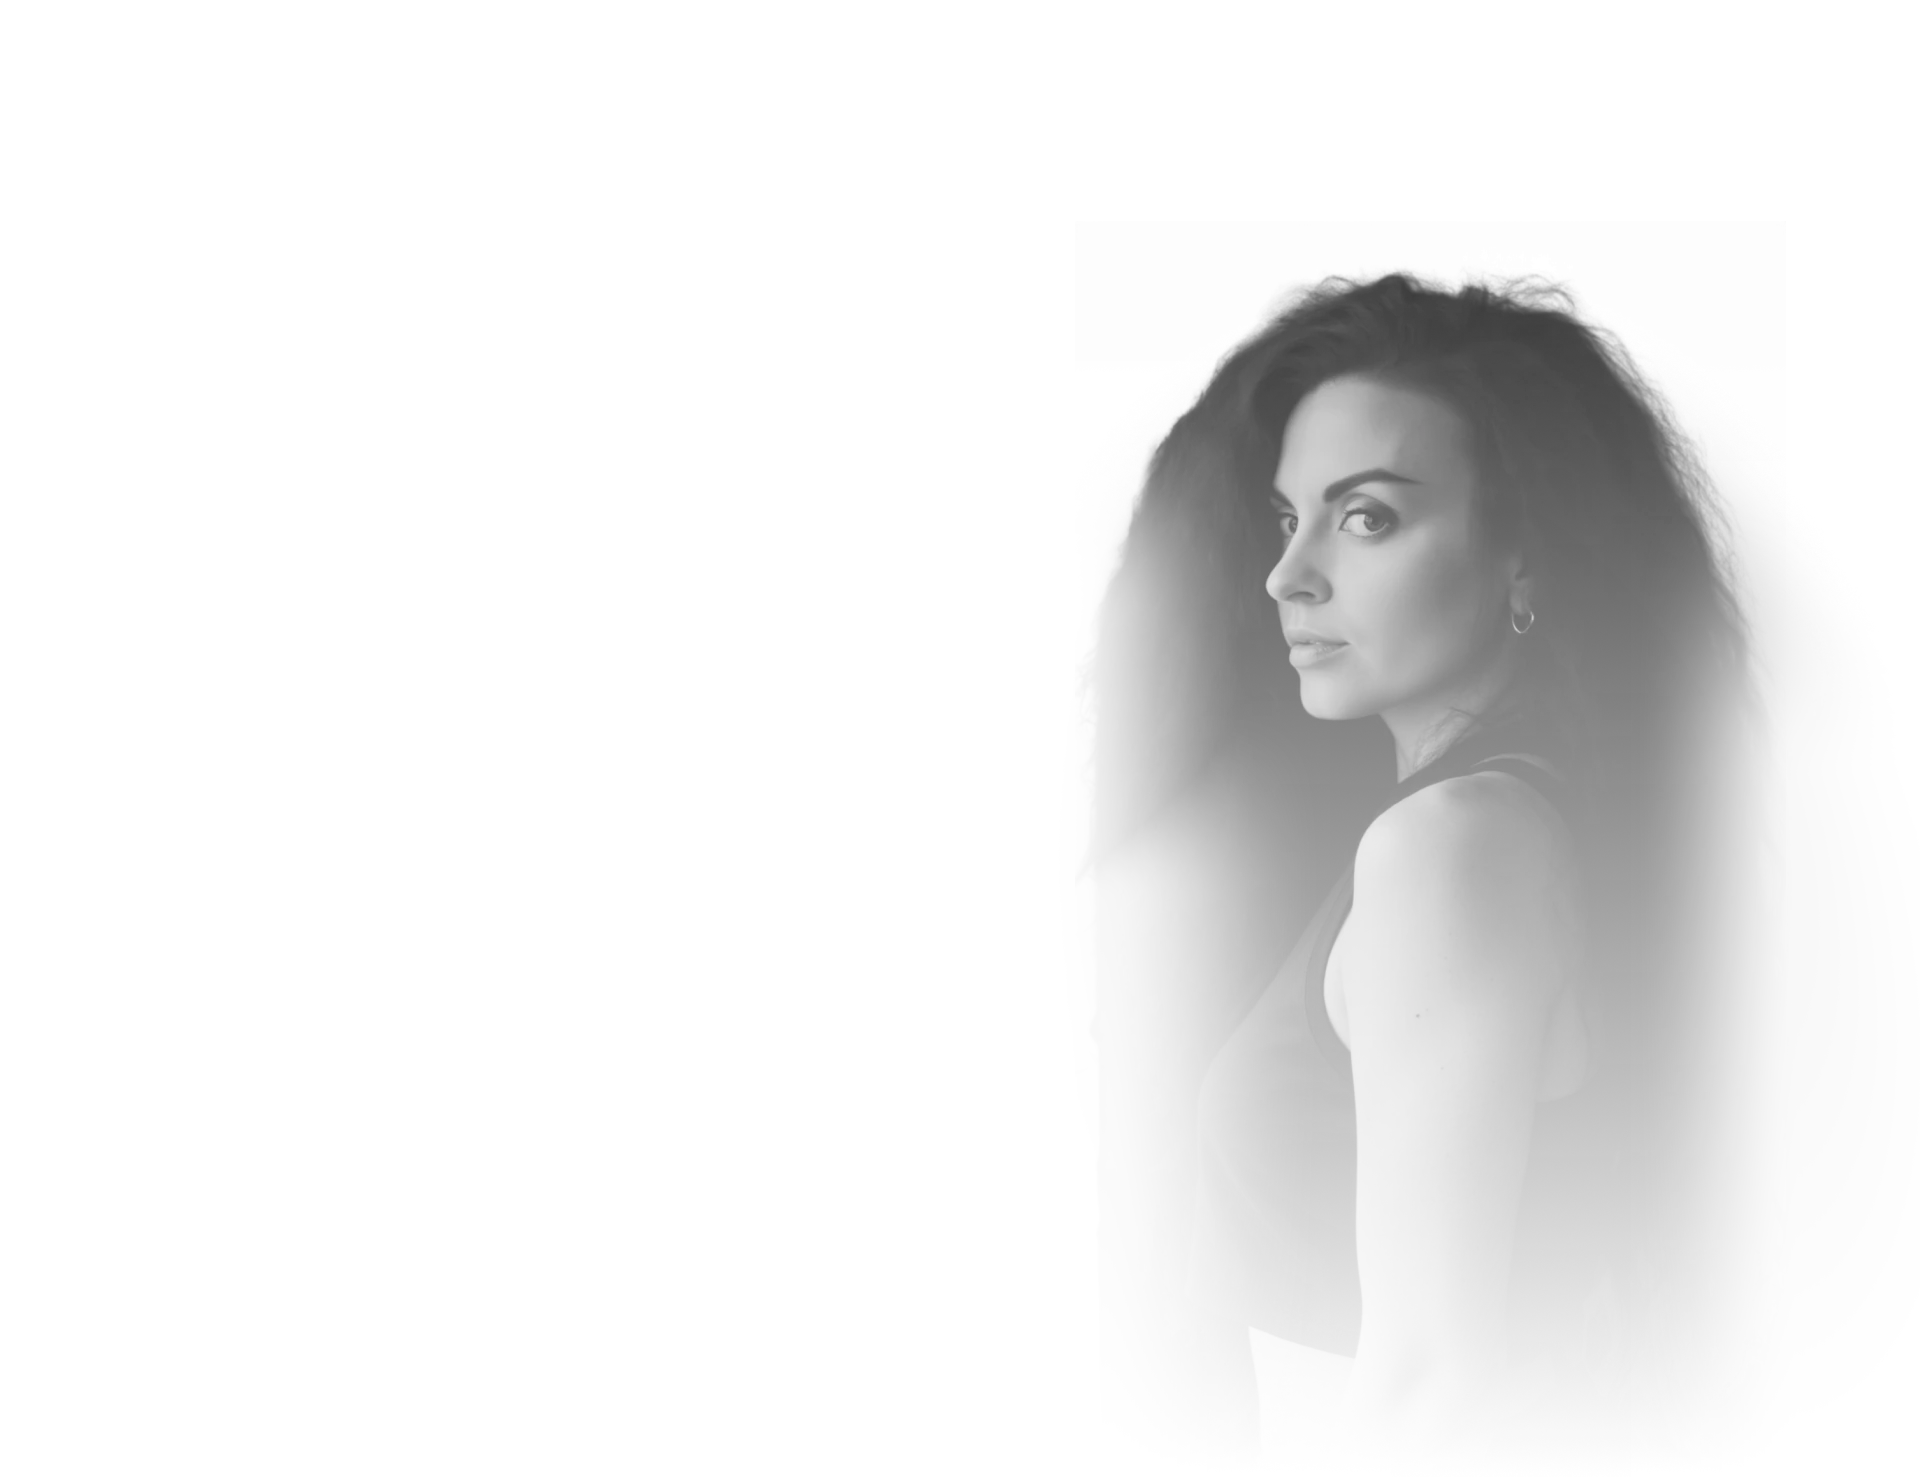
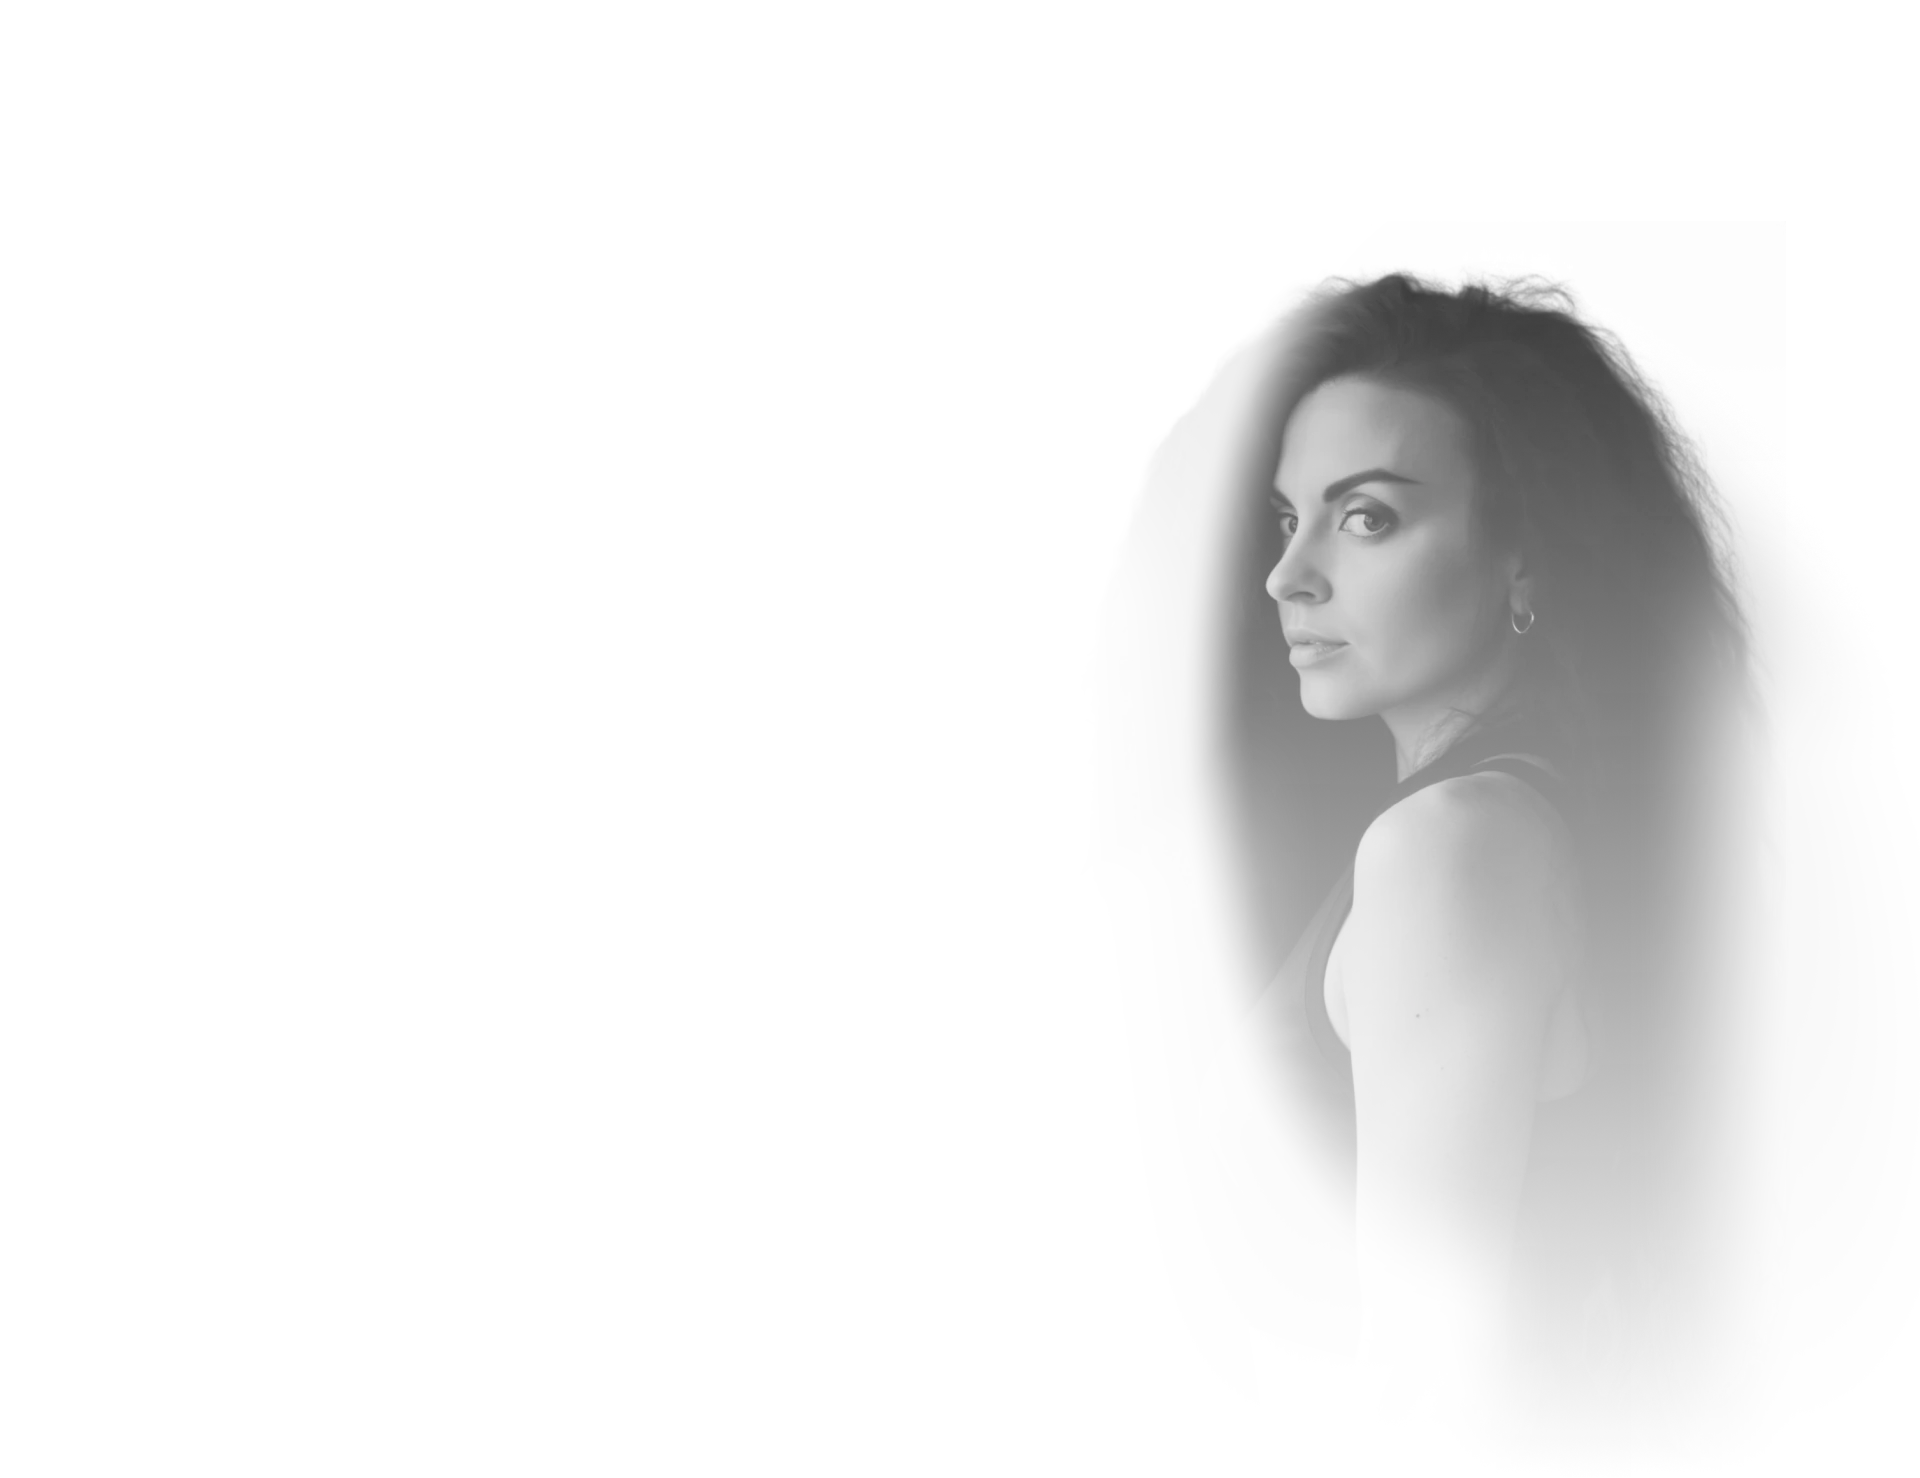
Скиллы: вернул прежнюю раскладку, 8 пунктов по 4 с каждой стороны; фото: волосы слева сильнее растворены
Claude-Session: https://claude.ai/code/session_01VoSRDSBLadYxEjhpN71N9v

Changed region(s): [[0.5625, 0.1867, 0.7188, 0.9026]]

diff --git a/index.html b/index.html
@@ -228,11 +228,13 @@
       <p class="sec__tag overline">{ Навыки }</p>
     </div>
     <div class="skills__track" tabindex="0" aria-label="Навыки, листаются вбок">
-        <ol class="skills__col skills__grid">
+        <ol class="skills__col skills__col--left">
           <li class="skill"><span class="skill__num">01</span><p class="skill__title">Дизайн от&nbsp;интерфейсов до&nbsp;полиграфии</p><p class="skill__desc">UI/UX, сайты, брендинг, иллюстрации и&nbsp;печатные материалы. За&nbsp;плечами&nbsp;— 200+ <span class="nw">дизайн-концепций</span>, сотни логотипов и&nbsp;фирменных стилей.</p></li>
           <li class="skill"><span class="skill__num">02</span><p class="skill__title">Профильное образование</p><p class="skill__desc">Окончила ТРТУ, сейчас ЮФУ. По&nbsp;специальности&nbsp;— <span class="nw">инженер-дизайнер</span>.</p></li>
           <li class="skill"><span class="skill__num">03</span><p class="skill__title">6+ лет в&nbsp;IT-студии</p><p class="skill__desc">Знаю процессы изнутри и&nbsp;умею работать в&nbsp;связке с&nbsp;разработчиками&nbsp;— от&nbsp;идеи до&nbsp;реализации.</p></li>
           <li class="skill"><span class="skill__num">04</span><p class="skill__title">Международный опыт</p><p class="skill__desc">3+ года в&nbsp;офисе канадской компании, в&nbsp;англоязычной команде. Долгосрочно сотрудничаю с&nbsp;зарубежными компаниями удалённо.</p></li>
+        </ol>
+        <ol class="skills__col skills__col--right" start="5">
           <li class="skill"><span class="skill__num">05</span><p class="skill__title">Руководство и&nbsp;наставничество</p><p class="skill__desc">2 года руководила командой из&nbsp;пяти дизайнеров: распределяла задачи, вела переговоры и&nbsp;сдавала проекты. Помогаю младшим специалистам расти.</p></li>
           <li class="skill"><span class="skill__num">06</span><p class="skill__title">Самостоятельность и&nbsp;сроки</p><p class="skill__desc">Большой опыт фриланса. Быстро включаюсь в&nbsp;работу, планирую нагрузку и&nbsp;довожу проекты до&nbsp;результата.</p></li>
           <li class="skill"><span class="skill__num">07</span><p class="skill__title">Вайбкодинг</p><p class="skill__desc">Создаю сайты и&nbsp;интерактивные инструменты с&nbsp;помощью AI. Соединяю дизайн и&nbsp;код, чтобы превращать идеи в&nbsp;работающие проекты.</p></li>

diff --git a/style.css b/style.css
@@ -313,38 +313,40 @@ a:hover { opacity: .6; }
 }
 .soft__bar { display: none; }
 
-/* ---------- Скиллы: 8 пунктов, сетка 4×2 ---------- */
-.skills__track { margin-top: calc(87 * var(--u)); }
-.skills__grid {
+/* ---------- Скиллы ---------- */
+.skills__track {
   display: grid;
-  grid-template-columns: repeat(4, 1fr);
-  gap: calc(72 * var(--u)) calc(40 * var(--u));
-  margin: 0;
-  padding: 0;
-  list-style: none;
+  grid-template-columns: calc(860 * var(--u)) calc(860 * var(--u));
+  column-gap: calc(40 * var(--u));
+  align-items: start;
+  margin-top: calc(87 * var(--u));
+}
+.skills__col {
+  display: flex;
+  flex-direction: column;
+  gap: calc(22 * var(--u));
 }
 .skill {
   display: flex;
   flex-direction: column;
-  padding-top: calc(24 * var(--u));
-  border-top: 1px solid rgba(205, 205, 205, .3);
   font-size: max(13px, calc(20 * var(--u)));
   line-height: 1.2;
   letter-spacing: 0.03em;
 }
 .skill__num {
-  margin-bottom: calc(40 * var(--u));
+  margin-bottom: calc(8 * var(--u));
   font-family: var(--font-display);
   font-weight: 800;
-  font-size: calc(48 * var(--u));
   line-height: 1;
   letter-spacing: 0;
 }
-.skill__title { min-height: 2.4em; text-transform: uppercase; }
 .skill__desc {
-  margin-top: calc(16 * var(--u));
+  margin-top: calc(2 * var(--u));
+  max-width: calc(800 * var(--u));
   color: var(--text-secondary);
 }
+.skills__col--left .skill { align-items: flex-end; text-align: right; }
+.skills__col--left .skill__desc { max-width: calc(680 * var(--u)); }
 .skills__nav { display: none; }
 
 /* ---------- Апгрейд / сертификаты ---------- */
@@ -828,13 +830,11 @@ a:hover { opacity: .6; }
     scroll-snap-align: start;
     font-size: max(13px, calc(14 * var(--m)));
   }
-  .skill { padding-top: calc(16 * var(--m)); }
-  .skill__num { margin-bottom: calc(24 * var(--m)); font-size: calc(32 * var(--m)); }
-  .skill__title { min-height: 0; }
+  .skill__num { margin-bottom: calc(16 * var(--m)); }
   .skill__desc,
   .skills__col--left .skill__desc {
-    margin: calc(16 * var(--m)) 0 0;
-    max-width: calc(300 * var(--m));
+    margin: calc(16 * var(--m)) 0 0 calc(40 * var(--m));
+    max-width: calc(280 * var(--m));
   }
   .skills__nav {
     display: flex;
